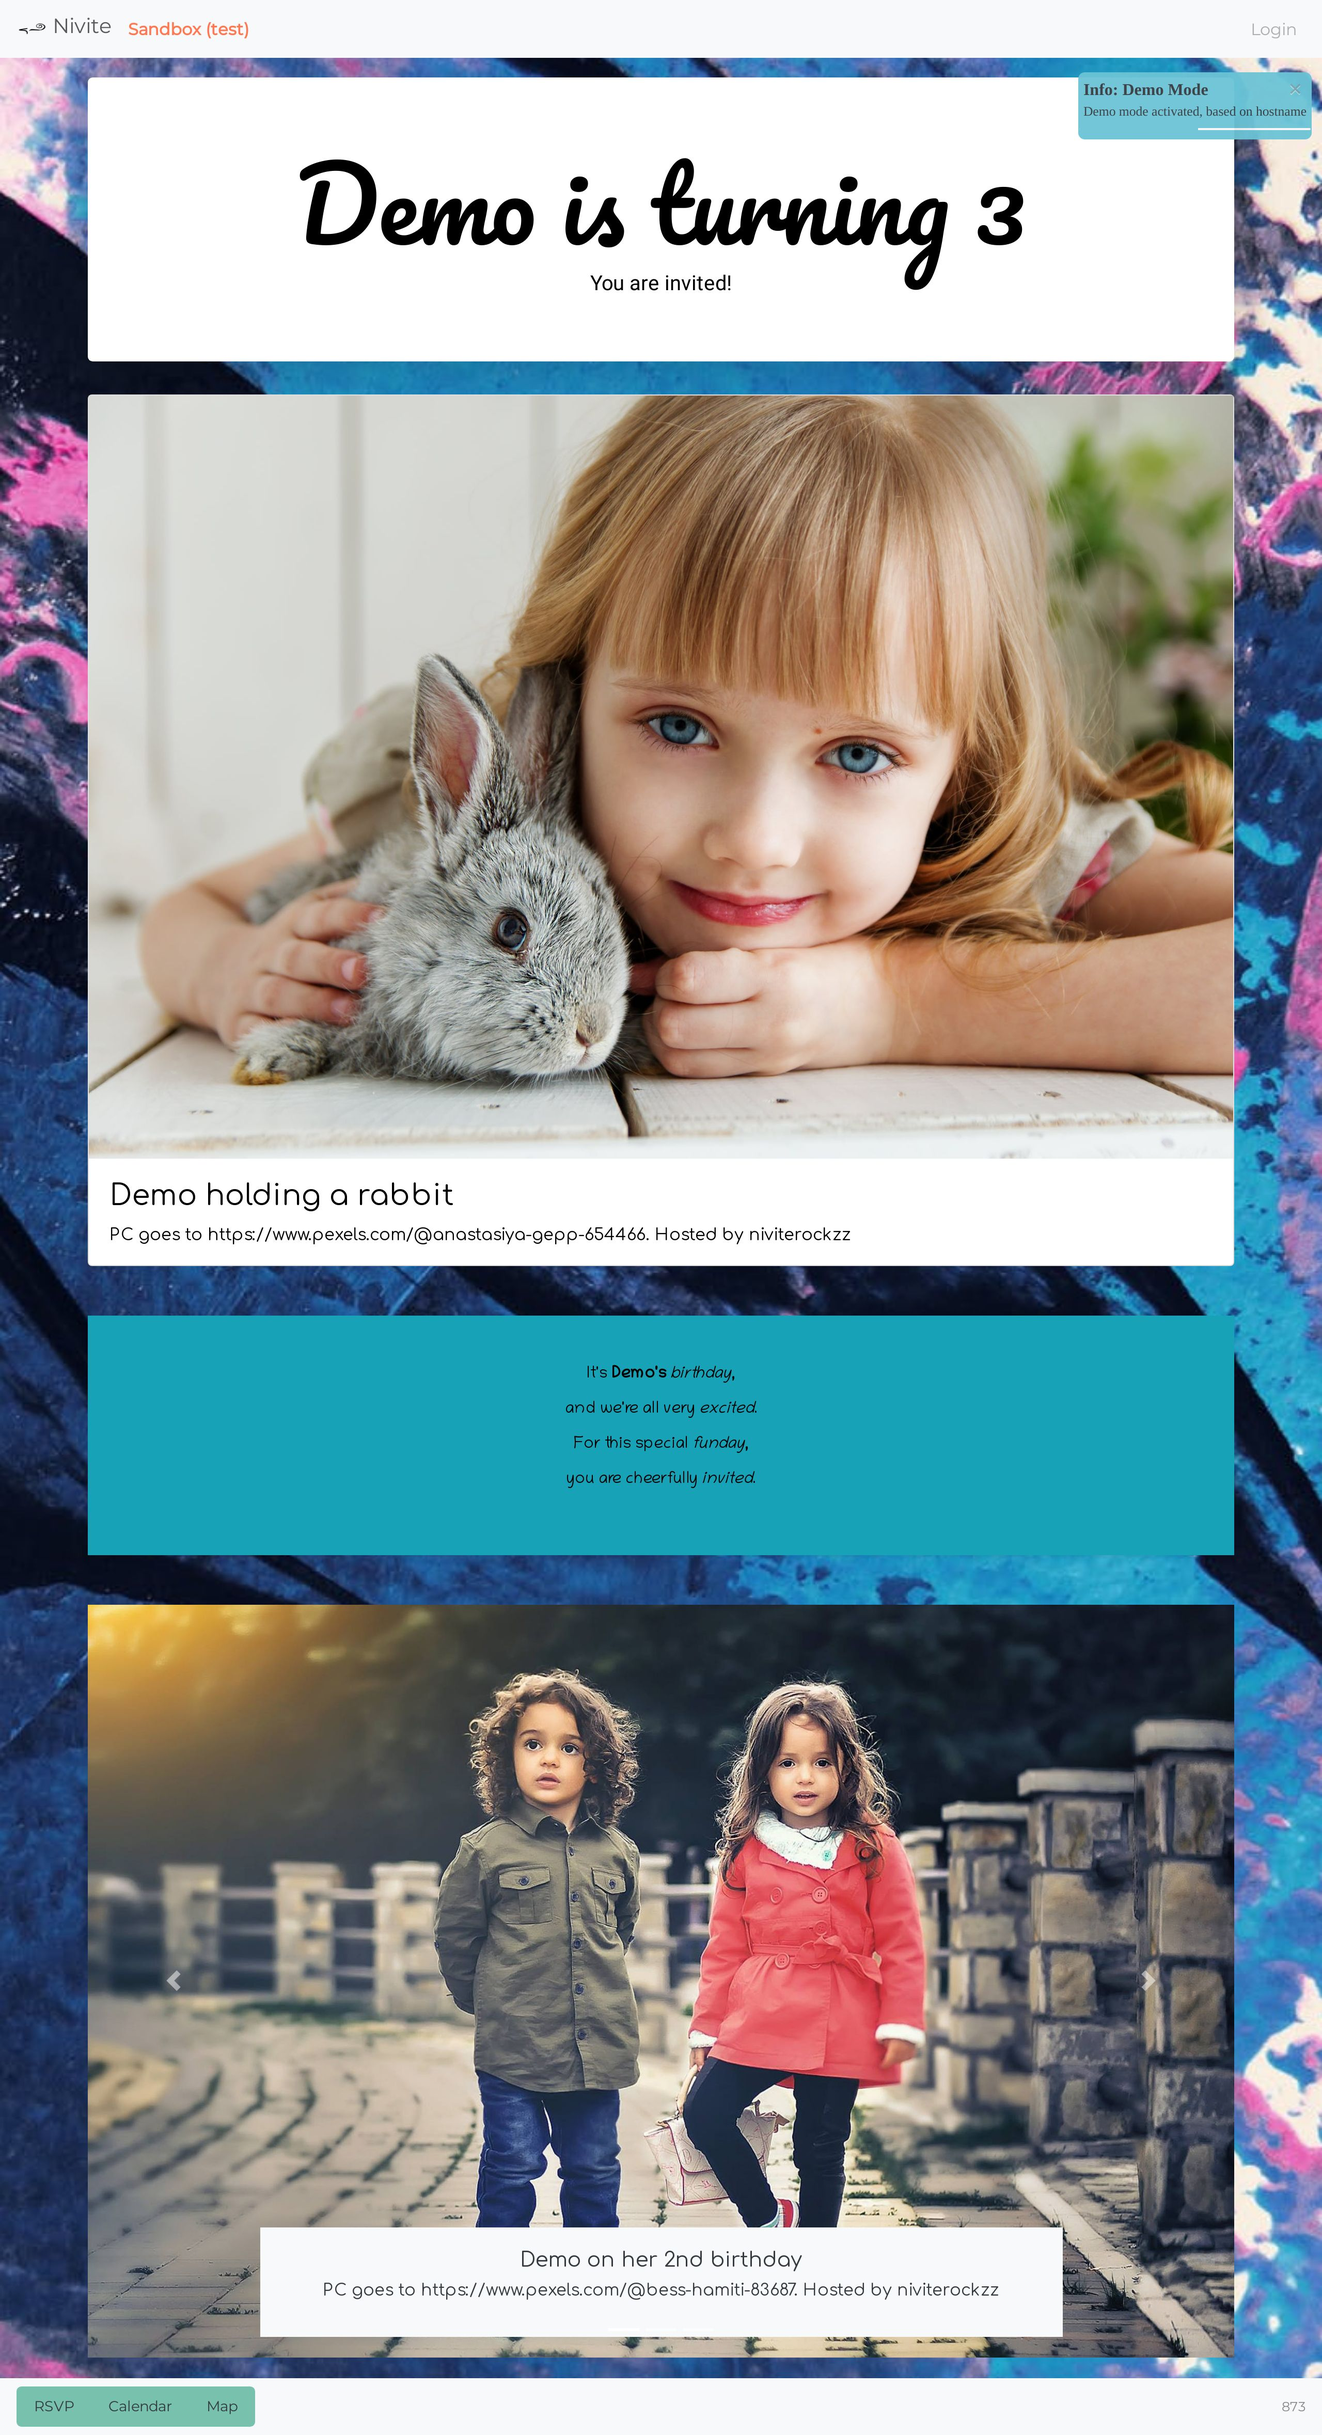
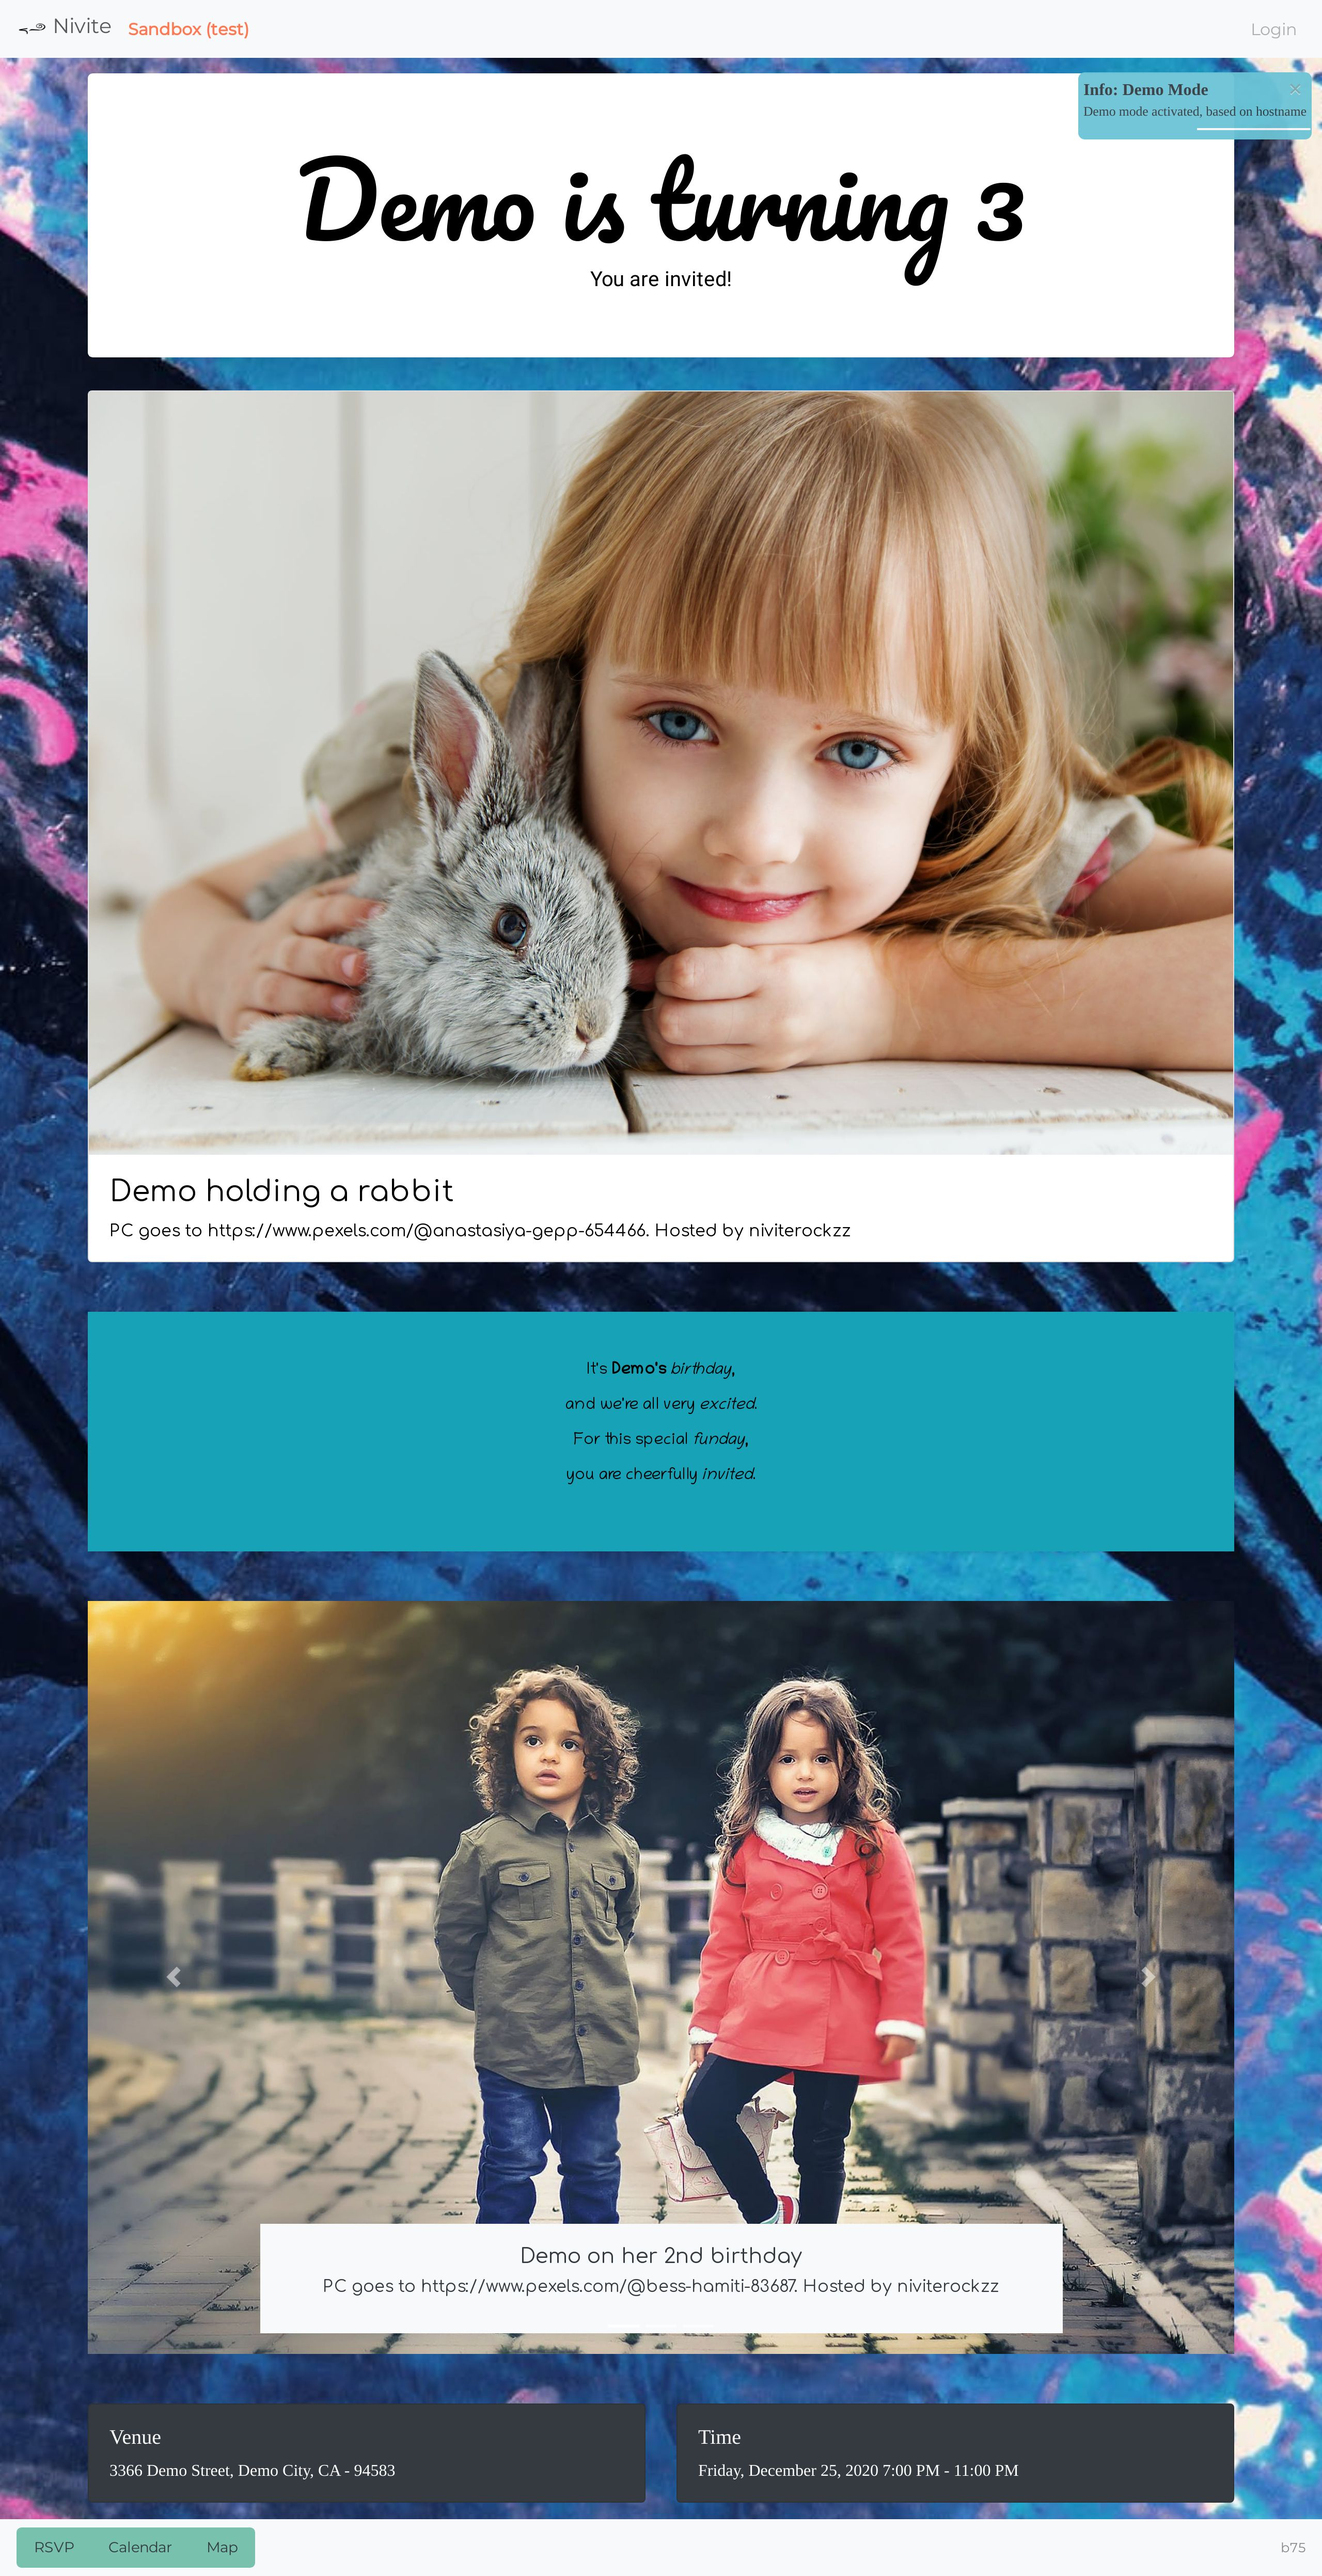
Auto-generated commit to gh-pages

diff --git a/assets/default.html b/assets/default.html
@@ -1,5 +1,5 @@
 <head><link href="default.css" rel="stylesheet"></head><!-- Custom template goes here -->
-<div class="container fade-in">
+<div class="py-3 container fade-in">
   {{#if guest}}
   <section class="guest mb-4">
     <div class="guest-container d-flex justify-content-center text-muted text-small text-dark bg-none">
@@ -7,7 +7,6 @@
     </div>
   </section>
   {{/if}}
-
 
   <section class="main">
     <div class="jumbotron bg-white shadow-lg">
@@ -75,43 +74,24 @@
   </section>
   {{/if}}
 
-  <section class="details">
-
+  <section class="details mt-5">
+    <div class="row">
+      <div class="col-12 col-md-6">
+        <div class="card text-white bg-dark">
+          <div class="card-body">
+            <h5 class="card-title">Venue</h5>
+            <p class="card-text">{{invite.addrText}}</p>
+          </div>
+        </div>
+      </div>
+      <div class="col-12 col-md-6">
+        <div class="card text-white bg-dark">
+          <div class="card-body">
+            <h5 class="card-title">Time</h5>
+            <p class="card-text">{{invite.timeFromString}} - {{endsat invite}}</p>
+          </div>
+        </div>
+      </div>
+    </div>
   </section>
-
-
-
-  <div class="invite-container d-none">
-    <section class="details">
-      <div class="details-address">
-        <div class="details-address-title">Venue</div>
-        <div class="details-address-text">{{invite.addrText}}</div>
-      </div>
-      <div class="details-time">
-        <div class="details-time-title">Time</div>
-        <div class="details-time-from">
-          <div class="details-time-from-title">Starts</div>
-          <div class="details-time-from-text">{{invite.timeFrom}}</div>
-        </div>
-        <div class="details-time-to">
-          <div class="details-time-to-title">Ends</div>
-          <div class="details-time-to-text">{{invite.timeTo}}</div>
-        </div>
-      </div>
-    </section>
-    <section class="slider">
-      {{#sliderPhotos}}
-      <div class="slider-img-container">
-        <img class="slider-img" src="{{url}}" alt="{{title}}">
-        <div class="slider-img-details">
-          <div class="slider-img-title">{{title}}</div>
-          <span class="slider-img-description">{{description}}</span>
-        </div>
-      </div>
-      {{/sliderPhotos}}
-    </section>
-    <section class="footer">
-      Lovely nerds handcrafted this invite @ <a href="http://nivite.jrvite.com" target="_blank"
-        rel="noopener noreferrer">Nivite.com</a>
-    </section>
-  </div><script type="text/javascript" src="default.js"></script>
+</div><script type="text/javascript" src="default.js"></script>
